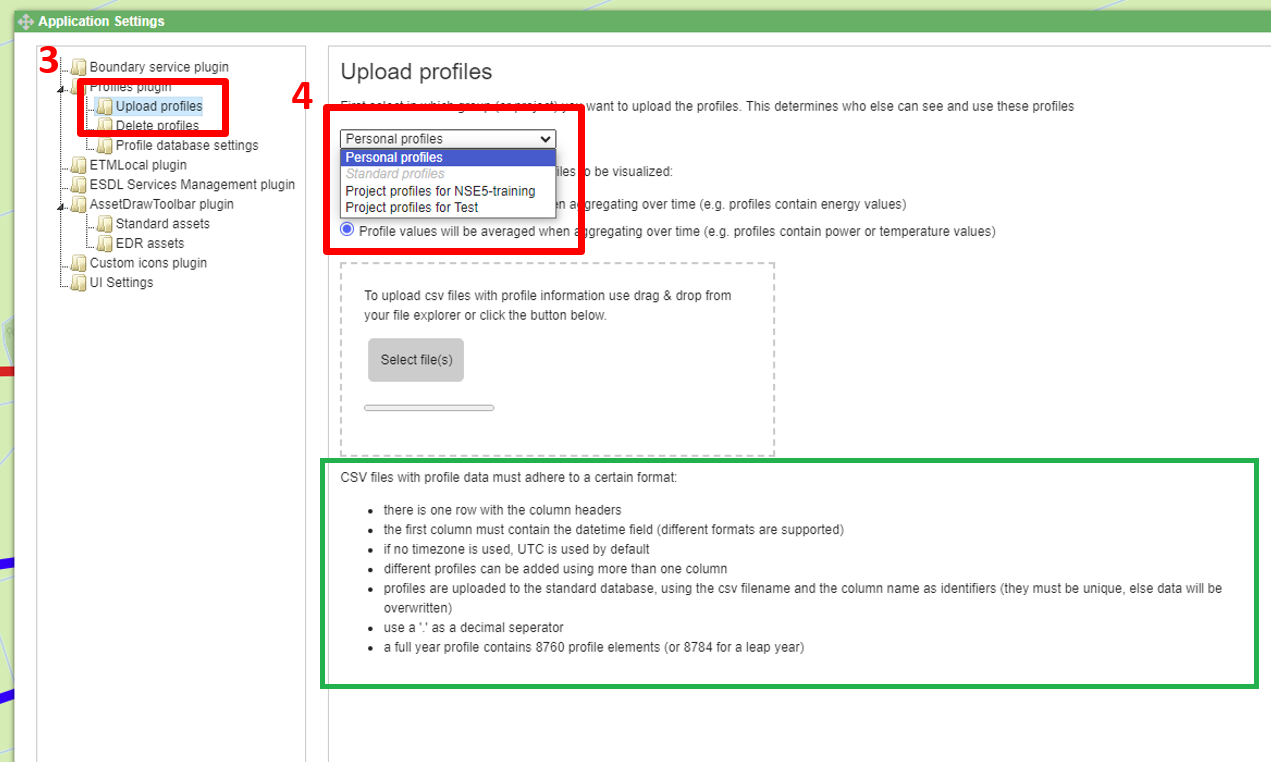
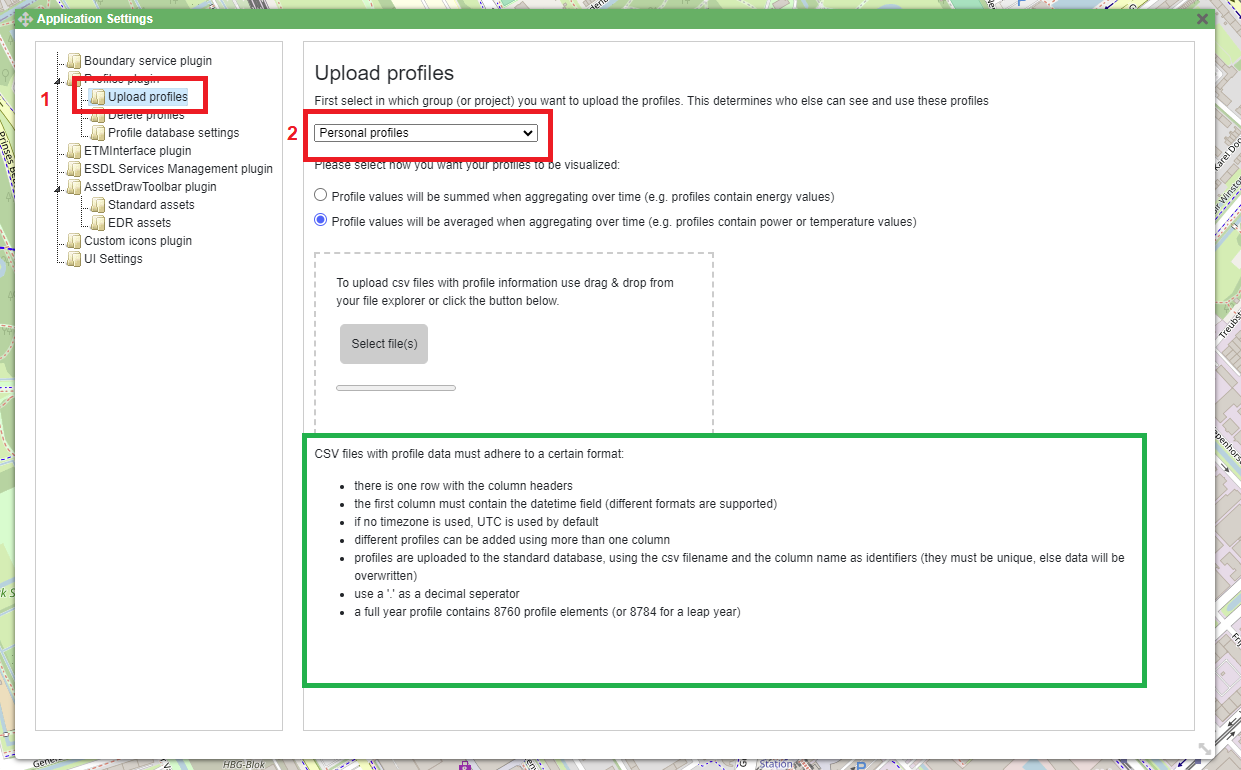
Added profiles plugin description and changed the screenshots.

Changed region(s): [[0.0, 0.0, 1.0, 1.0]]

diff --git a/docs/source/features/profile_manager.rst b/docs/source/features/profile_manager.rst
@@ -3,8 +3,8 @@ Profile manager
 
 In MapEditor, different profiles can be added to energy assets' In and OutPorts. A user can choose a profile from the list of pre-defined EDR or MapEditor's DB profiles (such as standard NEDU profiles), but also define and choose their own profiles. Adding custom profiles, as well as deleting them, is done through the *Profile manager*.
 
-Uploading custom profiles
--------------------------
+Profiles plugin
+---------------
 
 To access the *Profile manager*, click on *View* menu item on the menu bar (nr.1), and go to *Settings* (nr.2).
 
@@ -12,9 +12,24 @@ To access the *Profile manager*, click on *View* menu item on the menu bar (nr.1
   :width: 800
   :alt:
 
-Navigate to *Profiles plugin* and click on *Upload profiles* (nr.3). For it to be recognized by MapEditor, a custom profile should be provided as a CSV file that adheres to a certain format. The formatting rules are listed at the bottom of the window (see the green box).
+Profiles plugin allows a user to manually create and add a profile. To access this feature, click on *Profiles plugin* (nr.1) and fill in the fields on the window (nr.2). Using these fields, a profile can be created using data from different InfluxDBs.
+
+.. image:: images/profile_manager0.png
+  :width: 800
+  :alt:
+
+Furthermore, by selecting a profile from the dropdown menu (nr.1), a user can visualize existing (uploaded) profiles, and check their parameters such as database name, measurement, start and end date, and others.
+
+.. image:: images/profile_manager10.png
+  :width: 800
+  :alt:
+
+Uploading custom profiles
+-------------------------
+
+To upload custom profile, first go to the *Profile manager* as shown above. Then, navigate to *Profiles plugin* and click on *Upload profiles* (nr.1). For it to be recognized by MapEditor, a custom profile should be provided as a CSV file that adheres to a certain format. The formatting rules are listed at the bottom of the window (see the green box).
 Profiles can be stored in different groups, depending on the access rights. For example, a user can define a personal profile (accessible only by the user that defined it), a profile related to a certain project (accessible by users working on the same project), or a profile that will be stored to EDR or MapEditor's database (accessible by everyone).
-To upload a custom profile, choose the appropriate access group from the dropdown menu (nr.4).
+To upload a custom profile, choose the appropriate access group from the dropdown menu (nr.2).
 
 .. image:: images/profile_manager2.png
   :width: 800
@@ -26,7 +41,7 @@ An example CSV file used to create a custom profile is shown below.
   :width: 300
   :alt:
 
-In this example, a custom profile will be added to a project group (nr.5). Select whether the profile values should be averaged or summed over time (depending on the unit the values represent) (nr.6), and click on *Select files* (nr.7) to select the desired files to be uploaded.
+In this example, a custom profile will be added to the *Personal profiles* group (nr.1). Select whether the profile values should be averaged or summed over time (depending on the unit the values represent) (nr.2), and click on *Select files* (nr.3) to select the desired files to be uploaded.
 
 .. image:: images/profile_manager3.png
   :width: 800
@@ -35,7 +50,7 @@ In this example, a custom profile will be added to a project group (nr.5). Selec
 If a profile is successfully uploaded, a message is displayed on the window.
 
 .. image:: images/profile_manager5.png
-  :width: 800
+  :width: 300
   :alt:
 
 Once a profile is uploaded, it can be added to an asset's port by selecting it from the *Profile class* dropdown menu.
@@ -49,7 +64,7 @@ Deleting profiles
 
 To delete an uploaded file, navigate again to *Profiles plugin* by clicking on *View* menu item on the menu bar (nr.1), and going to *Settings* (nr.2).
 
-.. image:: images/profile_manager8.png
+.. image:: images/profile_manager1.png
   :width: 800
   :alt:
 
